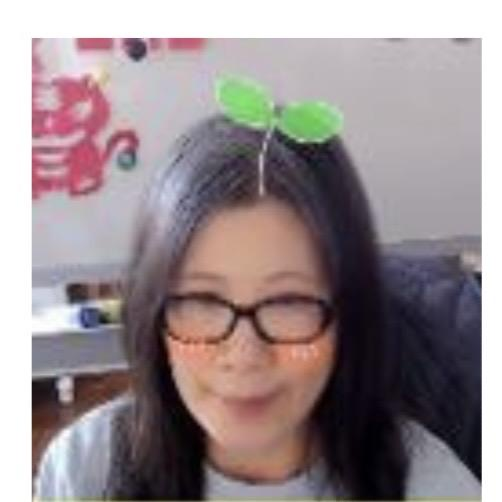
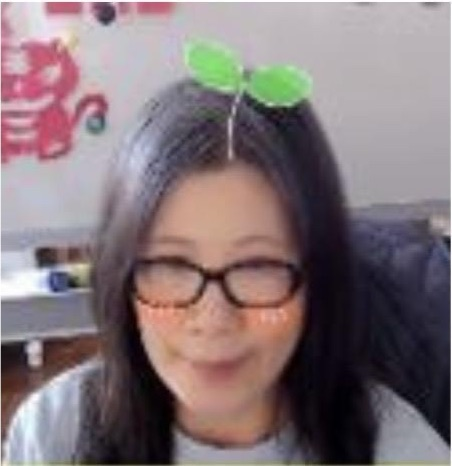
Trim the baked-in white margins from five teacher photos
吳秀華, 呂慧慈, 謝明暐, 沈燦, and 張樂濱 each had a white border inside the
image file itself, which showed as a pale wedge inside the circular
avatar. Each is now cropped to its content bounding box — padding only,
nothing of the subject.

The borders were located by decoding each JPEG to BMP and scanning in
from the edges for near-white rows and columns, rather than by eye:

  吳秀華    413x600 -> 366x583   (26/9/21/8 trimmed L/T/R/B)
  呂慧慈    502x502 -> 452x466   (31/36/19/0)
  謝明暐    387x467 -> 336x439   (26/7/25/21)
  沈燦      565x557 -> 510x509   (34/26/21/22)
  張樂濱    600x410 -> 598x386   (0/24/2/0)

Two of these could not have been fixed by object-position alone: 呂慧慈
and 沈燦 were square or near-square, so they exactly filled the square
container and there was no overflow to shift.

Cropped by rendering each image at a pixel offset in headless Chrome and
screenshotting the result. sips was the obvious tool but its
--cropOffset is neither an absolute origin nor a clean delta from centre,
and it rejects negative values, so it could not express these crops.

Re-ran the border scan afterwards: all five report a content box flush
with the image edges.

diff --git a/src/data/teachers.ts b/src/data/teachers.ts
@@ -21,14 +21,19 @@
 // `bio`; see src/data/proposed-changes.ts for the per-class notes still under
 // review.
 //
-// PHOTOS. Every teacher now has one, and they are published as supplied. They
-// are NOT a consistent set: resolutions run from 268x386 to 1130x1279,
-// backgrounds range from studio white to a Honolulu skyline, several are webcam
-// stills, one has a video-call filter on it, and two are full-body shots rather
-// than headshots. They are displayed with object-fit: cover inside a circle, so
-// nothing is stretched — but a proper photo session would replace all 25. Where
-// the default framing cuts badly (a face off-centre, a full-body pose),
-// `photoFocus` sets object-position for that one image.
+// PHOTOS. Every teacher now has one. They are NOT a consistent set: resolutions
+// run from 268x386 to 1130x1279, backgrounds range from studio white to a
+// Honolulu skyline, several are webcam stills, one has a video-call filter on
+// it, and two are full-body shots rather than headshots. They are displayed
+// with object-fit: cover inside a circle, so nothing is stretched — but a
+// proper photo session would replace all 25. Where the default framing cuts
+// badly (a face off-centre, a full-body pose), `photoFocus` sets
+// object-position for that one image.
+//
+// The only edit made to the supplied files: five had a white margin baked into
+// the image (吳秀華, 呂慧慈, 謝明暐, 沈燦, 張樂濱), which showed as a pale wedge
+// inside the circle. Those were trimmed to their content bounding box —
+// removing padding only, nothing of the subject.
 
 import { content } from "../i18n/content";
 import type { Lang } from "../i18n/ui";
